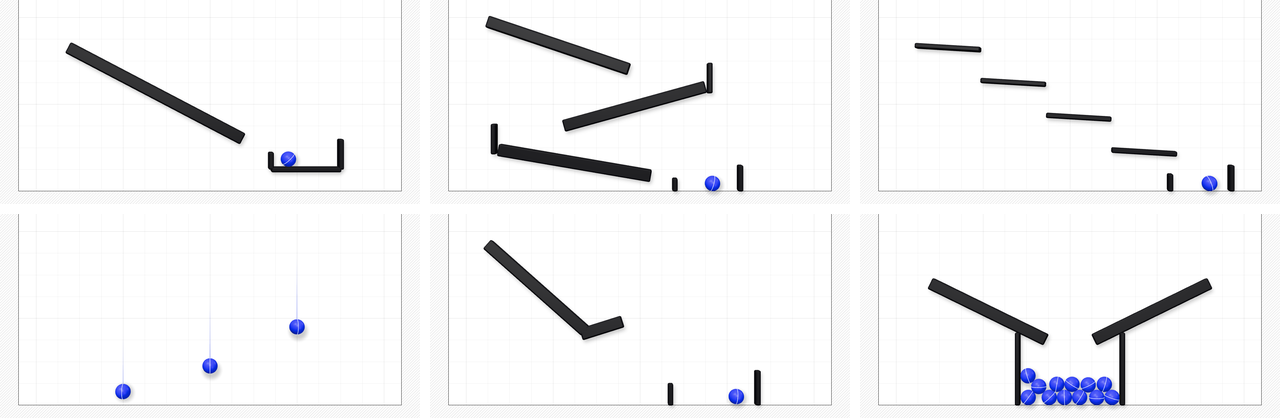
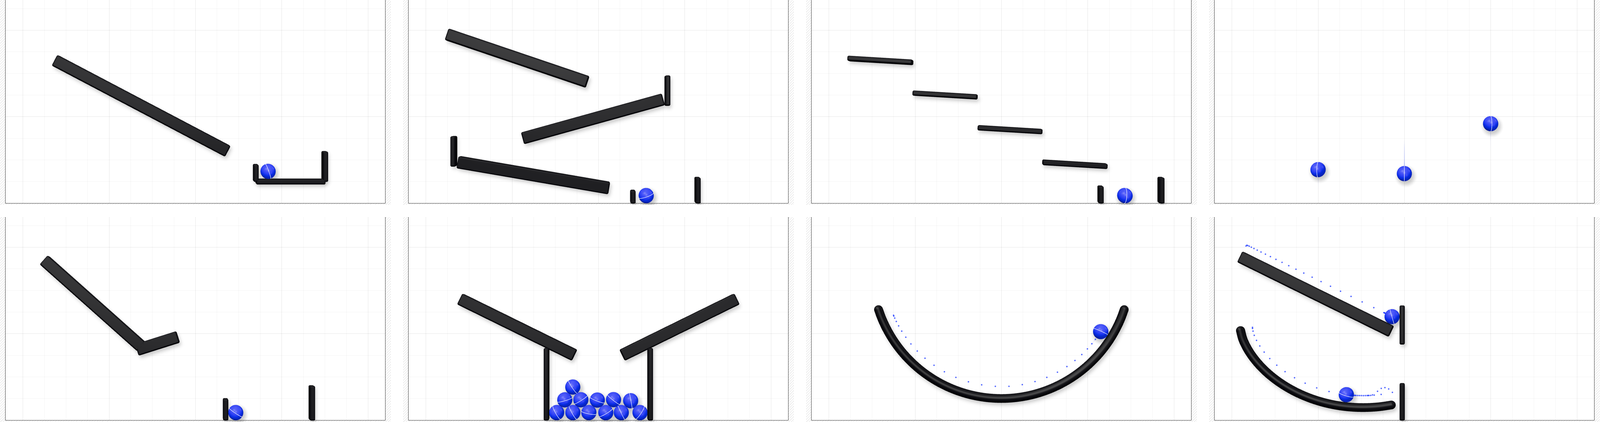
Release 2.0.0
README and changelog for curves, motion marks, links, and editing;
refreshed screenshots with all eight examples. The velocity arrow follows
the same ball as the motion readout.

diff --git a/src/render/PhysicsWorld.tsx b/src/render/PhysicsWorld.tsx
@@ -7,6 +7,7 @@ import type { SceneObject, BallObject, CurveObject } from '../scene/objects'
 import type { PhysicsParams } from '../physics/params'
 import { BALL_DAMPING, BOUNDARY, TIME_STEP, boxFor, capsulesFor, type Box } from '../physics/world'
 import { clearLiveBallPose, liveBallMotion, setLiveBallMotion, setLiveBallPose } from '../physics/livePoses'
+import { followedBall } from '../physics/motion'
 import type { ScenePalette } from './palette'
 import { TrailRibbon } from './trail'
 import { BALL_SHADOW_SPAN, SHADOW_OFFSET, SHADOW_Z, ballShadowTexture } from './shadows'
@@ -38,7 +39,7 @@ interface Props {
   objects: SceneObject[]
   physics: PhysicsParams
   selectedId: string | null
-  /** Motion marks on: dots behind moving balls and a velocity arrow on the selected one. */
+  /** Motion marks on: dots behind moving balls and a velocity arrow on the ball the readout follows. */
   motion: boolean
   palette: ScenePalette
   /** World units per CSS pixel on the drawing plane, for hairlines that stay crisp at any size. */
@@ -47,6 +48,7 @@ interface Props {
 
 /** Rapier world for the scene; physics/world.ts describes the same layout for headless tests. */
 export function PhysicsWorld({ objects, physics, selectedId, motion, palette, pixel }: Props) {
+  const followed = motion ? followedBall(objects, selectedId)?.id : undefined
   return (
     <Physics gravity={[0, -physics.gravity, 0]} timeStep={TIME_STEP} paused={physics.paused}>
       {BOUNDARY.map((box, i) => (
@@ -62,7 +64,7 @@ export function PhysicsWorld({ objects, physics, selectedId, motion, palette, pi
       {objects.map((o) => {
         const selected = o.id === selectedId
         if (o.kind === 'ball') {
-          return <BallBody key={o.id} ball={o} physics={physics} palette={palette} pixel={pixel} selected={selected} motion={motion} />
+          return <BallBody key={o.id} ball={o} physics={physics} palette={palette} pixel={pixel} selected={selected} motion={motion} followed={o.id === followed} />
         }
         if (o.kind === 'curve') {
           return <CurveBody key={o.id} curve={o} physics={physics} palette={palette} pixel={pixel} selected={selected} />
@@ -218,7 +220,7 @@ function Ring({ inner, width, z, color, order = 0 }: { inner: number; width: num
   )
 }
 
-function BallBody({ ball, physics, palette, pixel, selected, motion }: BodyProps & { ball: BallObject; motion: boolean }) {
+function BallBody({ ball, physics, palette, pixel, selected, motion, followed }: BodyProps & { ball: BallObject; motion: boolean; followed: boolean }) {
   const bodyRef = useRef<RapierRigidBody>(null)
   const followRef = useRef<Group>(null)
   const dotsRef = useRef<InstancedMesh>(null)
@@ -303,7 +305,7 @@ function BallBody({ ball, physics, palette, pixel, selected, motion }: BodyProps
         <>
           <group ref={followRef} position={[position.x, position.y, 0]}>
             {outline}
-            {motion && selected && <VelocityArrow ballId={ball.id} pixel={pixel} color={palette.ink} />}
+            {followed && <VelocityArrow ballId={ball.id} pixel={pixel} color={palette.ink} />}
             <mesh position={[SHADOW_OFFSET.x, SHADOW_OFFSET.y, SHADOW_Z]} scale={r * BALL_SHADOW_SPAN * 2} renderOrder={-1}>
               <planeGeometry />
               <meshBasicMaterial map={ballShadowTexture()} color="#000000" transparent opacity={palette.shadowOpacity} depthWrite={false} toneMapped={false} />

diff --git a/README.md b/README.md
@@ -1,6 +1,6 @@
 # AirForge
 
-AirForge is a browser sandbox for rigid-body physics. You sketch with a mouse, a finger, or (optionally) your index finger in front of a webcam. Lines become ramps, circles become balls, and rectangles become platforms. Press **Drop** and [Rapier](https://rapier.rs/) simulates the scene. It suits trying out marble-run ideas, showing how gravity and bounciness change motion, or seeing how Rapier, react-three-fiber, and MediaPipe hand tracking fit together in a small app.
+AirForge is a browser sandbox for rigid-body physics. You sketch with a mouse, a finger, or (optionally) your index finger in front of a webcam. Lines become ramps, circles become balls, rectangles become platforms, and smooth bends become curved tracks. Press **Drop** and [Rapier](https://rapier.rs/) simulates the scene. Motion marks leave a dot behind each moving ball every 0.1 s, and a link carries the whole scene to someone else. It suits trying out marble-run ideas, showing how gravity and bounciness change motion, or seeing how Rapier, react-three-fiber, and MediaPipe hand tracking fit together in a small app.
 
 **Demo:** https://skysssup.github.io/airforge/
 
@@ -17,13 +17,15 @@ AirForge is a browser sandbox for rigid-body physics. You sketch with a mouse, a
 4. Press **Drop** (`D`). Waiting balls start to fall.
 5. Press **Restart** (`R`) to put the balls back where they were dropped from, change something, and drop again.
 
-If a stroke isn't clearly a line, circle, or rectangle, it stays on screen as a dashed line and you choose what it becomes. A circle's size sets the ball's radius (0.15–1.5 units), and a rectangle drawn at an angle stays tilted.
+A smooth stroke that bends clearly away from a straight line, such as an arc, a dip, or a wave, becomes a curved track that balls roll along. A nearly straight stroke stays a ramp. If a stroke isn't clearly a line, circle, rectangle, or curve, it stays on screen as a dashed line and you choose what it becomes. A circle's size sets the ball's radius (0.15–1.5 units), and a rectangle drawn at an angle stays tilted.
+
+Click a shape to select it, then drag it somewhere else, turn it with `[` and `]`, or copy it with `Ctrl+D` (`⌘D` on macOS). Each of these is one step for **Undo**. A ball moved into a shape is lifted just clear of it. A released ball belongs to the physics engine, so it can be moved again only after **Freeze** or **Restart**.
 
 ## Examples
 
 Each example opens from the **Examples** menu or from its link. A strip under the top bar says what to expect and what to try next. The headless tests in [`src/examples.test.ts`](src/examples.test.ts) check every outcome listed below.
 
-![The six examples after pressing Drop](docs/examples.png)
+![The eight examples after pressing Drop; Half-Pipe and Curve Race with motion marks on](docs/examples.png)
 
 | Example | What it shows | After Drop |
 |---|---|---|
@@ -33,6 +35,8 @@ Each example opens from the **Examples** menu or from its link. A strip under th
 | [Bounce Test](https://skysssup.github.io/airforge/?example=bounce-test) | The Bounce setting (0.85) and dropping several balls at once. | Three balls bounce in place; each bounce peaks at roughly 70% of the one before. |
 | [Moon Jump](https://skysssup.github.io/airforge/?example=moon-jump) | The Gravity setting (1.62, close to the Moon's). | The ball skis off a kicker and lands in the bin after about 8 seconds. At gravity 10 the same jump takes about 3 seconds. |
 | [Funnel](https://skysssup.github.io/airforge/?example=funnel) | Ball-to-ball collisions with twelve balls. | The balls pour through the funnel and pile up in the box. |
+| [Half-Pipe](https://skysssup.github.io/airforge/?example=half-pipe) | A curved track trading height for speed and back. | The ball swings from side to side, each swing a little lower, and settles at the bottom. At Moon gravity (1.62) each swing takes about 2.5 times as long. |
+| [Curve Race](https://skysssup.github.io/airforge/?example=curve-race) | A curve against a straight ramp with the same drop: the brachistochrone. | The ball on the curve reaches its post about half a second before the ball on the ramp, though its path is longer. It also wins with Friction at 0, when both balls slide. |
 
 The example files live in [`public/examples/`](public/examples/). They are ordinary scene files, so you can also download one and load it with **Open**.
 
@@ -42,26 +46,35 @@ The example files live in [`public/examples/`](public/examples/). They are ordin
 |---|---|
 | Draw a shape | Drag on the sheet |
 | Select a shape | Click or tap it |
+| Move the selected shape | Drag it (hold `Shift` to snap its center to a half-unit grid), or arrow keys for 0.1 units (`Shift` for 1) |
+| Turn the selected shape | `[` and `]` for 5° (`Shift` for 15°), or the buttons beside it for 15° |
+| Copy the selected shape | `Ctrl+D` (`⌘D` on macOS), or the button beside it |
 | Delete the selected shape | **Delete** button, `Delete`, or `Backspace` |
 | Release waiting balls (or drop a new one) | **Drop**, `D` |
 | Put released balls back | **Restart**, `R` |
 | Pause or resume the simulation | **Pause**, `Space` |
 | Stop moving balls where they are | **Freeze**, `F` |
+| Show dots every 0.1 s, speed, and height | **Motion**, `M` |
 | Undo / redo | **Undo** / **Redo**, `Z` / `Shift+Z`, `Ctrl+Z` / `Ctrl+Shift+Z` (`⌘` on macOS) |
 | Discard an unclear stroke, or deselect | `Esc` |
 | Change gravity, bounce, and friction | **World** |
+| Copy a link to the scene | **Copy link** |
 | Switch between light and dark | Theme button (follows the system setting until you pick one) |
 | Show all controls | **Help**, `?` |
 
-**Gravity**, **Bounce**, and **Friction** are in the **World** panel. They apply to the whole scene and are saved with it, and the panel also counts the scene's ramps, balls, and platforms. **Clear** removes everything and can be undone. You can rename the scene in the box next to the AirForge name. The status line at the bottom shows the input mode, the pointer's position in world units, and the latest message.
+**Gravity**, **Bounce**, and **Friction** are in the **World** panel. They apply to the whole scene and are saved with it, and the panel also counts the scene's ramps, balls, platforms, and curves. **Clear** removes everything and can be undone. You can rename the scene in the box next to the AirForge name. The status line at the bottom shows the input mode, the pointer's position in world units, and the latest message.
 
-The interface comes in a light and a dark theme. Ramps and platforms are drawn as ink-colored solids, balls in the accent color. A ball waiting for **Drop** is drawn flat, as a circle with a center mark; once released it becomes a solid ball with a line across it that shows its spin, and it leaves a short fading trail. The selected shape gets an accent outline.
+The interface comes in a light and a dark theme. Ramps, platforms, and curves are drawn as ink-colored solids, balls in the accent color. A ball waiting for **Drop** is drawn flat, as a circle with a center mark; once released it becomes a solid ball with a line across it that shows its spin, and it leaves a short fading trail. The selected shape gets an accent outline.
+
+**Motion marks.** Press **Motion** (`M`) and every moving ball leaves a dot every 0.1 s of simulated time, like a strobe photo: wide gaps mean fast, tight gaps mean slow. One ball gets an arrow along its velocity and a panel with its time since release, speed, height above the floor, and highest point so far: the selected ball, or the only moving one when none is selected. Distances are in world units, and one unit is one grid square. AirForge remembers whether motion marks are on.
 
 **Webcam (optional).** Press **Webcam**. The camera image appears faintly behind the sheet, mirrored, with a ring at your index fingertip, so your finger lines up with what it draws. Raise your index finger to draw, then pinch thumb and index (or close your hand) to finish the shape. An open palm cancels the stroke. A gesture takes effect after 3 steady frames, and losing the hand for more than 2 frames cancels the stroke. Only the fingertip's x and y are used. **Use mouse** turns the camera off. Webcam mode needs HTTPS or `localhost` and camera permission. It also needs network access, because it downloads MediaPipe Tasks Vision 1.0.1 from jsDelivr and the hand model from Google Cloud Storage. Video frames are processed in the browser and are not uploaded.
 
-## Scene files
+## Scene files and links
 
-**Save** downloads the scene as JSON. **Open** loads one. A file stores the scene name, the gravity, bounce, and friction settings, and every shape's position and size. A ball that is moving when you save is stored at its current position, but its velocity is not stored. Files use format version 1 (`"format": "airforge-scene", "version": 1`), the same format AirForge 1.0.x saved. Files larger than 512 KB are refused, as are files with more than 40 objects or coordinates beyond ±10,000 units, and the status line says why.
+**Save** downloads the scene as JSON. **Open** loads one. A file stores the scene name, the gravity, bounce, and friction settings, and every shape's position and size. A ball that is moving when you save is stored at its current position, but its velocity is not stored. A scene with a curve is saved as format version 2 (`"format": "airforge-scene", "version": 2`), which AirForge 1.x cannot open. A scene without curves is still saved as version 1, the format AirForge 1.x saves, so either version can open it. Files larger than 512 KB are refused, as are files with more than 40 objects, curves with more than 64 points, or coordinates beyond ±10,000 units, and the status line says why.
+
+**Copy link** copies a link with the whole scene file in its `#scene=` part, compressed with deflate and encoded as base64url. The scene never goes to a server, because browsers do not send that part of a link. Opening the link checks the scene exactly like opening a file, and a damaged link leaves the current scene alone. The example scenes make links of 400 to 900 characters.
 
 ## Run locally
 
@@ -90,16 +103,18 @@ CI runs `npm test`, `npm run lint`, `npm run build`, and the Chromium browser te
 ## How it works
 
 - **Input.** [`src/input/mouse.ts`](src/input/mouse.ts) turns pointer drags into strokes. Mouse and touch points are kept as drawn. Webcam fingertip points are smoothed, and a stroke is cancelled if tracking jumps more than 160 px between frames ([`src/stroke/capture.ts`](src/stroke/capture.ts), [`src/ui/WebcamPanel.tsx`](src/ui/WebcamPanel.tsx)).
-- **Recognition.** [`src/shapes/recognize.ts`](src/shapes/recognize.ts) fits a line, then a circle, then a rectangle, using geometric checks (deviation from a line, radius spread, corner angles) rather than a trained model.
+- **Recognition.** [`src/shapes/recognize.ts`](src/shapes/recognize.ts) checks for a curve, then a line, a circle, and a rectangle, using geometric tests rather than a trained model. A curve must be open (its ends apart by at least a fifth of its length), bend away from the straight line between its ends (by 12% of that distance and 25 px to one side, or 5% and 20 px to both sides, like a wave), and turn no more than 75° at any corner once wobbles under 6 px are ignored. The other shapes use deviation from a line, radius spread, and corner angles.
+- **Curves.** [`src/scene/objects.ts`](src/scene/objects.ts) smooths a curve stroke (Douglas–Peucker, then Chaikin corner cutting) and keeps points at least 0.35 units apart, at most 64 of them. Each segment collides as a capsule, and neighbors share their end spheres, so the track has no seams. The tube is drawn along a centripetal Catmull–Rom spline through the same points.
 - **Scene.** [`src/store/appStore.ts`](src/store/appStore.ts) holds the shapes, settings, undo/redo history (50 steps), and selection. A click selects instead of drawing.
-- **Physics.** [`src/physics/world.ts`](src/physics/world.ts) describes the collider layout used both by the rendered world ([`src/render/PhysicsWorld.tsx`](src/render/PhysicsWorld.tsx), via `@react-three/rapier`) and by the headless world in the tests. Rapier steps at a fixed 60 Hz. A floor and two side walls keep balls from leaving the scene.
+- **Physics.** [`src/physics/world.ts`](src/physics/world.ts) describes the collider layout used both by the rendered world ([`src/render/PhysicsWorld.tsx`](src/render/PhysicsWorld.tsx), via `@react-three/rapier`) and by the headless world in the tests. Rapier steps at a fixed 120 Hz; at 60 Hz a fast ball could overlap the next pieces of a tight bend within one step and wedge there. A floor and two side walls keep balls from leaving the scene.
 - **View.** A perspective camera looks straight at the drawing plane. It frames both side walls and the floor with a band of ground under it, so balls never leave the screen; on tall screens the extra space goes above the scene ([`src/coords/camera.ts`](src/coords/camera.ts)).
 - **Drawing.** The grid, the hatched floor and walls, and the soft shadows of ramps and platforms are an SVG sheet behind a transparent WebGL canvas ([`src/ui/SheetBackdrop.tsx`](src/ui/SheetBackdrop.tsx)). The canvas draws rounded solids lit by three.js's procedural room environment, plus ball shadows, trails, and selection outlines whose widths are set in screen pixels ([`src/render/`](src/render/)). Rounding and shadows are visual only; colliders stay sharp-edged boxes and spheres.
 
 ## Limitations
 
-- **2.5D only.** Shapes lie in one plane. Balls move in x and y but not in depth. Ramps and platforms never move.
-- **Repeatability.** Physics runs at a fixed 60 Hz step. In Chromium, three runs of Ramp & Ball came to rest at the same point, (3.61, −2.53), which is where the headless test puts it. Scenes with many colliding balls, such as Funnel, end in a different arrangement each run.
+- **2.5D only.** Shapes lie in one plane. Balls move in x and y but not in depth. Ramps, platforms, and curves never move. A track that crosses itself is solid at the crossing, so a ball cannot ride a loop-the-loop.
+- **Curves are straight pieces.** A curve collides as a chain of short capsules. At each joint a rolling ball changes direction a little and loses some speed: in Half-Pipe each swing peaks about 20% lower above the bottom than the one before, including the balls' damping. Very tight bends are rounded off when the stroke is smoothed.
+- **Repeatability.** Physics runs at a fixed 120 Hz step. In Chromium, three runs of Ramp & Ball came to rest at the same point, (3.37, −2.53), which is where the headless world puts it. Scenes with many colliding balls, such as Funnel, end in a different arrangement each run.
 - **Velocities are not kept.** Undo and scene files keep positions but not velocities, so a ball restored mid-flight starts again from rest.
 - **Scene size.** A scene holds at most 40 objects.
 - **Webcam.** The webcam path was tested with Chrome's simulated camera playing MediaPipe's sample hand photos, not with physical webcams. Hand tracking runs on the main thread. On slow machines, fast hand movement can lose tracking and cancel the stroke.

diff --git a/CHANGELOG.md b/CHANGELOG.md
@@ -1,5 +1,25 @@
 # Changelog
 
+## 2.0.0 (2026-10-04)
+
+Curves, motion marks, scene links, and shape editing. A scene without curves is still saved as format version 1, so AirForge 1.x opens it. A scene with a curve is saved as version 2, which only 2.0 opens.
+
+### Added
+
+- Curves. A smooth stroke that bends clearly away from a straight line, such as an arc, a dip, or a wave, becomes a solid curved track. The picker for unclear strokes offers **Curve**, and the World panel counts curves.
+- Two examples built on curves. In Half-Pipe a ball swings in a curved bowl, about 2.5 times slower at Moon gravity. In Curve Race a ball on a curve beats a ball on a straight ramp with the same drop.
+- Motion marks (**Motion**, `M`). Moving balls leave a dot every 0.1 s of simulated time. One ball gets an arrow along its velocity and a panel with its time since release, speed, height above the floor, and highest point. AirForge remembers whether they are on.
+- Editing. Drag the selected shape to move it (`Shift` snaps it to a half-unit grid), nudge it with the arrow keys, turn it with `[` and `]` or the buttons beside it, and copy it with `Ctrl+D` or `⌘D`. Each is one undo step, and a ball moved into a shape is lifted just clear of it.
+- **Copy link** copies a link that carries the whole scene in its `#scene=` part, compressed. Opening the link checks the scene like a file, and a damaged link leaves the current scene alone.
+- Tests for curve recognition and smoothing, version 2 files, motion readings, and editing; headless checks of what the two new examples do; browser tests for drawing a curve, motion marks, editing, and links.
+
+### Changed
+
+- Scene format version 2 adds curves. AirForge 2.0 opens both versions.
+- Physics steps at 1/120 s instead of 1/60 s, so a fast ball cannot wedge itself into a tight bend. Every example still does what its notes say; the headless tests check each one.
+- A stroke is checked for a curve before a line. Strokes that bend too much to be a line, which used to open the picker, now become curves. Nearly straight strokes are still ramps.
+- The empty sheet shows a fourth stroke, curve to track. The welcome dialog, help, and World panel mention curves and the new controls.
+
 ## 1.2.0 (2026-10-04)
 
 A redesign of the interface and of how the scene is drawn. Scene files (format version 1) and the physics are unchanged.
